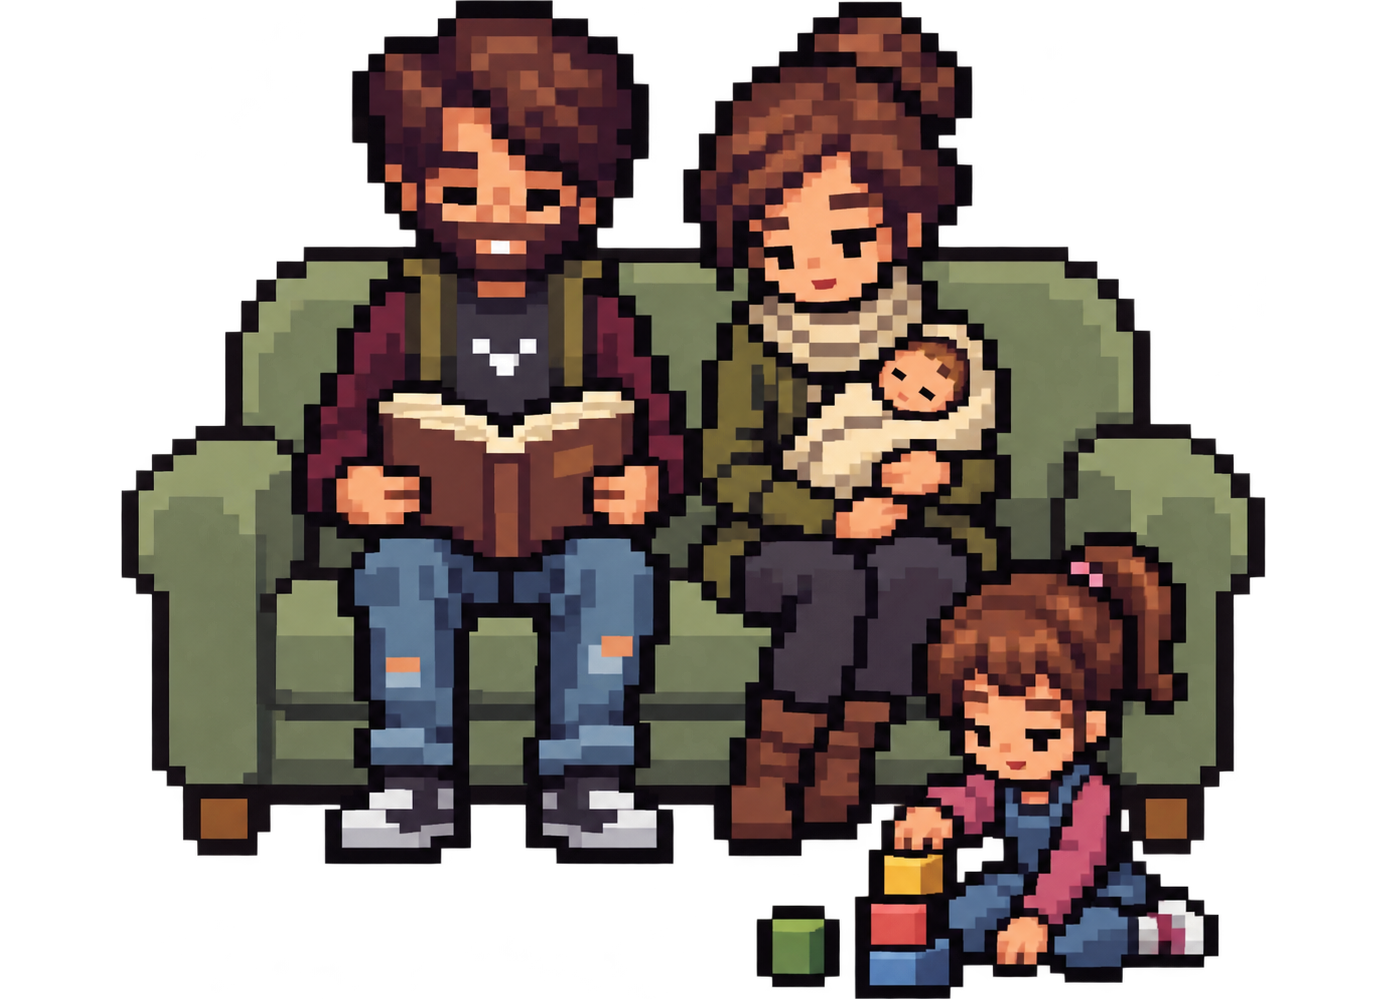
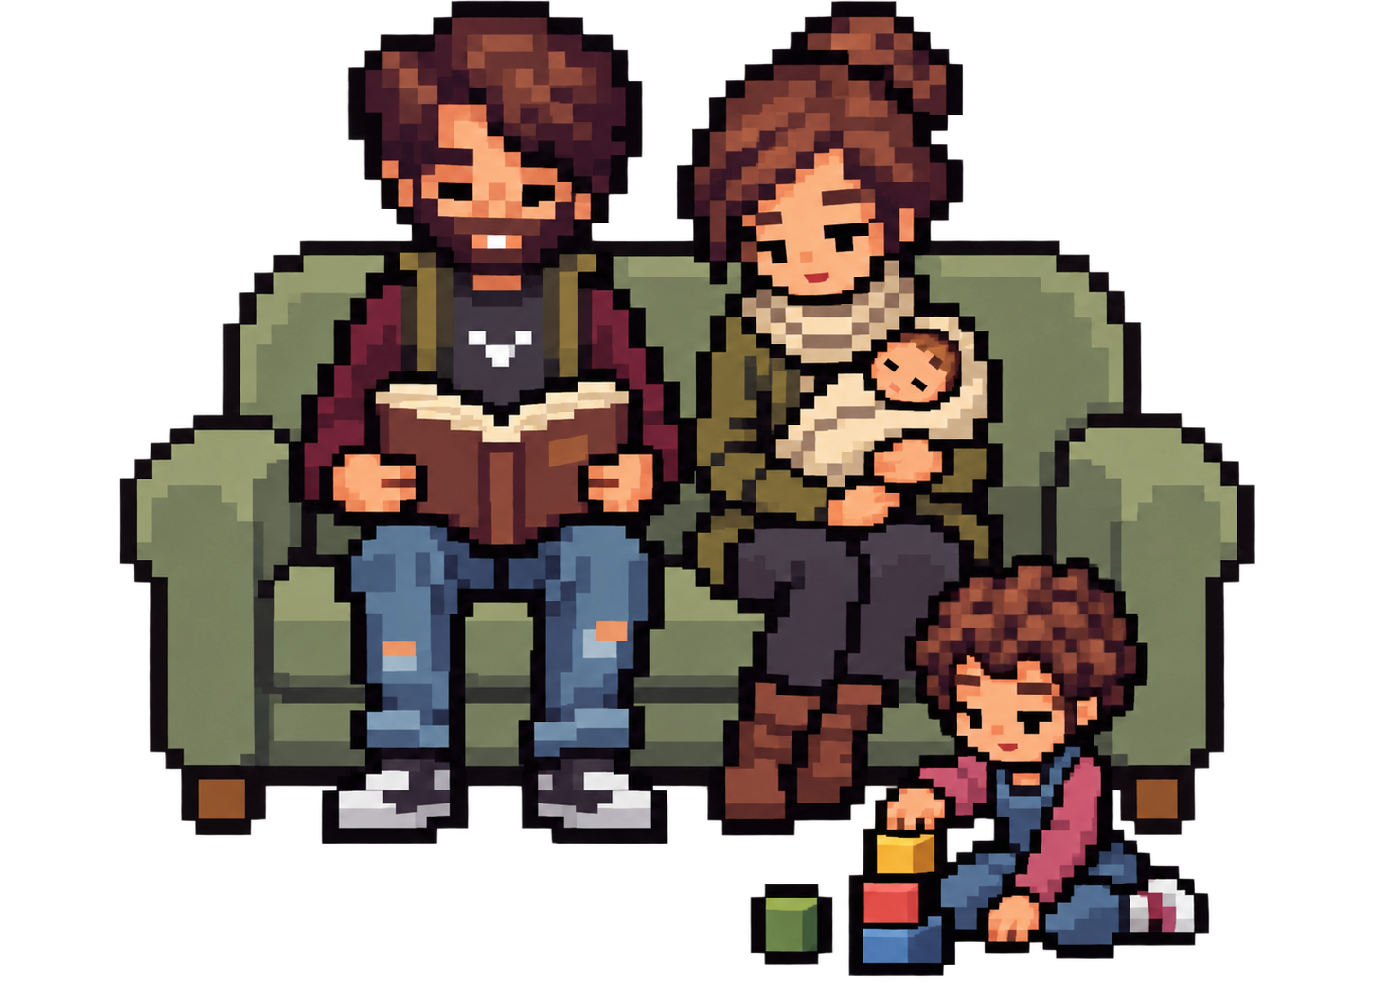
Give daughter short curly hair in family still and animation

Changed region(s): [[0.062, 0.0, 0.9294, 1.0]]

diff --git a/index.html b/index.html
@@ -344,7 +344,7 @@
         <div class="sprite sprite--stand" id="intro" role="img" aria-label="Nacho, standing">
           <img class="breathe" src="assets/standing-hd.webp" alt="" />
           <div class="sleep intro-cycle"><img src="assets/cycles/sleep-still.webp" alt="" /><canvas id="sleep-cycle" hidden aria-hidden="true"></canvas></div>
-          <div class="reading"><img src="assets/family-reading.webp" width="1388" height="999" alt="" /><canvas id="family-motion" width="1388" height="999" aria-hidden="true"></canvas></div>
+          <div class="reading"><img src="assets/family-reading.webp?v=short-curls" width="1388" height="999" alt="" /><canvas id="family-motion" width="1388" height="999" aria-hidden="true"></canvas></div>
         </div>
         <p class="scene-status" id="scene-status"></p>
       </div>
@@ -444,7 +444,7 @@
     </section>
   </main>
   <script src="assets/barcelona.js?v=4" defer></script>
-  <script type="module" src="assets/share-ready.js?v=random-instrument"></script>
+  <script type="module" src="assets/share-ready.js?v=short-curls"></script>
   <script>
     (function () {
       var still = matchMedia('(prefers-reduced-motion: reduce)').matches;

diff --git a/assets/sprite-cycles.js b/assets/sprite-cycles.js
@@ -19,7 +19,7 @@ export class SpriteCycle {
     this.ready = false;
     this.pause();
     try {
-      const response = await fetch(new URL(`./cycles/${name}.json`, import.meta.url));
+      const response = await fetch(new URL(`./cycles/${name}.json?v=short-curls`, import.meta.url));
       if (!response.ok) throw new Error(`Could not load ${name} animation`);
       const sheet = await response.json();
       const image = new Image();

diff --git a/assets/share-ready.js b/assets/share-ready.js
@@ -1,4 +1,4 @@
-import { SpriteCycle } from './sprite-cycles.js?v=wave-hd';
+import { SpriteCycle } from './sprite-cycles.js?v=short-curls';
 
 (() => {
   'use strict';
